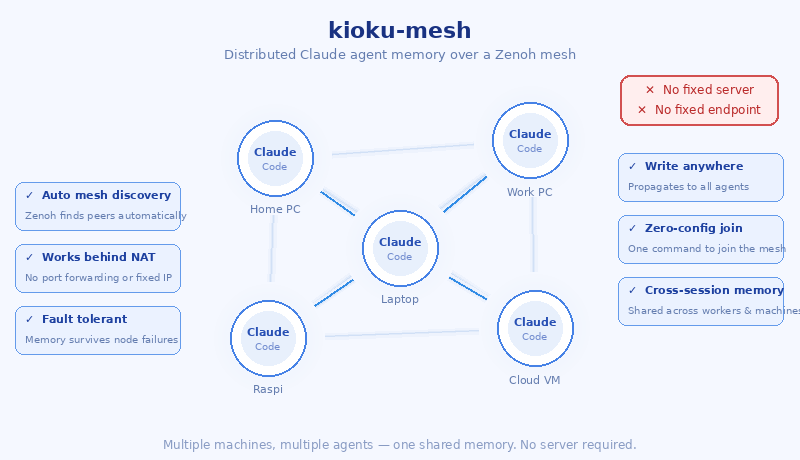
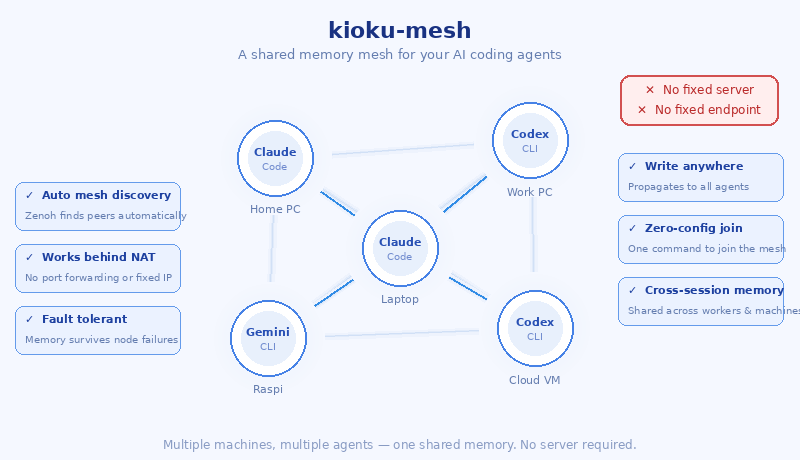
docs(assets): fix GIF pulse overlay, tofu titles, contrast, tagline
- gen_mesh_anim.py: pulse highlight was drawn as a filled circle on top
  of the node (alpha_blend toward dark BG), which visually erased the
  node + label on every frame it appeared in. Switch to a thin outline
  ring capped close to the node rim so it never covers the node or
  sweeps over the label below it.
- gen_mesh_anim.py: draw.text() had no font= argument, falling back to
  PIL's default bitmap font which renders the em dash ("—") used in
  every title as tofu (□). Load DejaVuSans(-Bold).ttf explicitly for
  titles (14px, sized to fit the 520px canvas without clipping) and
  node labels (13px, bold).
- gen_mesh_anim.py: brightened BG/edge/node/offline/label colors — the
  previous dark-on-dark palette (e.g. C_OFFLINE vs BG) had too little
  contrast for offline/idle nodes to read against the background.
- gen_overview.py: tagline changed from "Distributed Claude agent
  memory over a Zenoh mesh" to "A shared memory mesh for your AI
  coding agents" per the positioning decision (the "distributed
  memory" framing alone reads as HPC to newcomers, and the mesh is
  cross-tool, not Claude-only). Node avatar labels now mix Claude
  Code / Codex CLI / Gemini CLI instead of all five saying "Claude".

Regenerated propagation.gif / recovery.gif / spoke_join.gif /
overview.png via the updated scripts and spot-checked 5 frames per
GIF: all 6 nodes + labels stay legible in every sampled frame, no
tofu in titles, propagation path S2→Hub-A→Hub-B→S3/S4 is visible.

diff --git a/docs/assets/gen_mesh_anim.py b/docs/assets/gen_mesh_anim.py
@@ -10,24 +10,34 @@ import os
 
 from PIL import Image
 from PIL import ImageDraw
+from PIL import ImageFont
+
+FONT_PATH = '/usr/share/fonts/truetype/dejavu/DejaVuSans.ttf'
+FONT_BOLD = '/usr/share/fonts/truetype/dejavu/DejaVuSans-Bold.ttf'
+
+
+def font(size, bold=False):
+    return ImageFont.truetype(FONT_BOLD if bold else FONT_PATH, size)
+
 
 # ─── canvas ─────────────────────────────────────────────────────────────────
 W, H = 520, 320
-BG = (14, 18, 32)
-C_EDGE = (40, 60, 110)
-C_NODE = (55, 85, 155)
-C_HUB = (30, 120, 220)
-C_ACTIVE = (80, 200, 255)
-C_PULSE = (160, 230, 255)
-C_OFFLINE = (35, 38, 55)
-C_RECOVER = (60, 180, 100)
-C_NEW = (200, 160, 50)
-C_TEXT = (180, 210, 255)
-C_LABEL = (120, 160, 210)
+BG = (16, 20, 36)
+C_EDGE = (80, 105, 170)
+C_NODE = (85, 120, 200)
+C_HUB = (45, 145, 235)
+C_ACTIVE = (110, 220, 255)
+C_PULSE = (170, 235, 255)
+C_OFFLINE = (80, 85, 105)
+C_RECOVER = (75, 205, 125)
+C_NEW = (230, 180, 65)
+C_TEXT = (230, 238, 255)
+C_LABEL = (185, 208, 240)
 
 R_HUB = 22
 R_LEAF = 16
-FONT_SIZE = 11
+TITLE_SIZE = 14
+LABEL_SIZE = 13
 
 OUT_DIR = os.path.dirname(__file__)
 
@@ -50,7 +60,7 @@ def draw_node(draw, x, y, r, fill, outline=None, label='', label_color=C_LABEL):
     draw.ellipse((x - glow_r, y - glow_r, x + glow_r, y + glow_r), fill=glow_color)
     draw.ellipse((x - r, y - r, x + r, y + r), fill=fill, outline=outline or fill)
     if label:
-        draw.text((x, y + r + 6), label, fill=label_color, anchor='mt')
+        draw.text((x, y + r + 6), label, fill=label_color, anchor='mt', font=font(LABEL_SIZE, bold=True))
 
 
 def draw_edge(draw, p1, p2, color=C_EDGE, width=2):
@@ -64,7 +74,7 @@ def draw_packet(draw, p1, p2, t, color=C_ACTIVE, r=5):
 
 
 def draw_title(draw, text):
-    draw.text((W // 2, 14), text, fill=C_TEXT, anchor='mm')
+    draw.text((W // 2, 14), text, fill=C_TEXT, anchor='mm', font=font(TITLE_SIZE, bold=True))
 
 
 def new_frame():
@@ -145,10 +155,13 @@ def base_frame(highlight=None, offline=None, new_node=None, new_edges=None, puls
 
     if pulse_nodes:
         for n in pulse_nodes:
-            pr = int((R_HUB if n in HUBS else R_LEAF) * (1 + pulse_t * 1.5))
-            alpha = max(0.0, 0.5 - pulse_t * 0.5)
-            c = alpha_blend(BG, C_PULSE, alpha)
-            draw.ellipse((n[0] - pr, n[1] - pr, n[0] + pr, n[1] + pr), fill=c)
+            base_r = R_HUB if n in HUBS else R_LEAF
+            # stay within a tight halo around the node rim so the ring never
+            # sweeps over the label drawn just below (label starts at r + 6).
+            pr = base_r + int(pulse_t * 5)
+            alpha = max(0.0, 0.65 - pulse_t * 0.65)
+            ring_color = alpha_blend(BG, C_PULSE, alpha)
+            draw.ellipse((n[0] - pr, n[1] - pr, n[0] + pr, n[1] + pr), outline=ring_color, width=3)
 
     if new_node:
         draw_node(draw, new_node[0], new_node[1], R_LEAF, C_NEW, label=new_node[2] if len(new_node) > 2 else 'New')

diff --git a/docs/assets/gen_overview.py b/docs/assets/gen_overview.py
@@ -52,7 +52,7 @@ draw = ImageDraw.Draw(img)
 draw.text((W // 2, 30), 'kioku-mesh', fill=C_TITLE, anchor='mm', font=font(22, bold=True))
 draw.text(
     (W // 2, 54),
-    'Distributed Claude agent memory over a Zenoh mesh',
+    'A shared memory mesh for your AI coding agents',
     fill=C_SUB,
     anchor='mm',
     font=font(13),
@@ -65,6 +65,14 @@ NODES = {
     'C': (400, 248, 'Laptop'),
     'D': (268, 338, 'Raspi'),
     'E': (535, 328, 'Cloud VM'),
+}
+# cross-tool agents (Claude Code / Codex CLI / Gemini CLI), not a Claude-only mesh.
+AGENTS = {
+    'A': ('Claude', 'Code'),
+    'B': ('Codex', 'CLI'),
+    'C': ('Claude', 'Code'),
+    'D': ('Gemini', 'CLI'),
+    'E': ('Codex', 'CLI'),
 }
 KEYS = list(NODES.keys())
 EDGES = [(KEYS[i], KEYS[j]) for i in range(len(KEYS)) for j in range(i + 1, len(KEYS))]
@@ -118,8 +126,9 @@ for key, (x, y, label) in NODES.items():
         (x - R_INNER, y - R_INNER, x + R_INNER, y + R_INNER),
         fill=lerp_color(C_AGENT_BG, C_AGENT_RIM, 0.12),
     )
-    draw.text((x, y - 6), 'Claude', fill=C_AGENT_TXT, anchor='mm', font=font(11, bold=True))
-    draw.text((x, y + 8), 'Code', fill=lerp_color(C_AGENT_TXT, BG, 0.35), anchor='mm', font=font(10))
+    agent_line1, agent_line2 = AGENTS[key]
+    draw.text((x, y - 6), agent_line1, fill=C_AGENT_TXT, anchor='mm', font=font(11, bold=True))
+    draw.text((x, y + 8), agent_line2, fill=lerp_color(C_AGENT_TXT, BG, 0.35), anchor='mm', font=font(10))
     draw.text((x, y + R_NODE + 9), label, fill=C_SUB, anchor='mt', font=font(11))
 
 # ── "No X" badge (top right) ─────────────────────────────────────────────────
